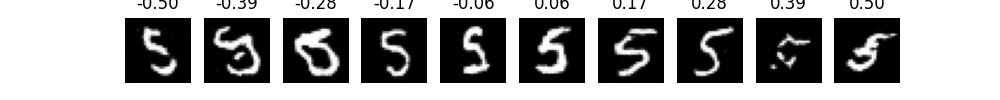
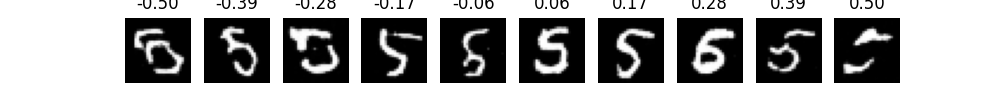
Fix the MeanFlow implementation

diff --git a/script/train.py b/script/train.py
@@ -23,12 +23,17 @@ from model.dit import DiT
 import argparse
 
 EPOCH = int(os.getenv("EPOCH", 500))
-BATCH_SIZE = int(os.getenv("BATCH_SIZE", 400))
-LEARNING_RATE = 0.001
+BATCH_SIZE = int(os.getenv("BATCH_SIZE", 800))
+LEARNING_RATE = 0.002
 WANDB_PROJECT = "flow-morphomnist"
 
 parser = argparse.ArgumentParser()
 parser.add_argument("--method", type=str, default="cfm", choices=["cfm", "mean_flow"], help="Training method: 'cfm' or 'mean_flow'")
+parser.add_argument("--P_mean_t", type=float, default=0.0)
+parser.add_argument("--P_std_t", type=float, default=1.0)
+parser.add_argument("--P_mean_r", type=float, default=0.0)
+parser.add_argument("--P_std_r", type=float, default=1.0)
+parser.add_argument("--ratio", type=float, default=1.0)
 args = parser.parse_args()
 
 dataloader = DataLoader(
@@ -45,7 +50,7 @@ USE_AMP = torch.cuda.is_available() and DEVICE.startswith("cuda")
 scaler = torch.amp.GradScaler('cuda', enabled=USE_AMP)
 
 model_name = f"model_{args.method}.pt"
-use_time = (args.method == "cfm")
+use_time = True
 
 try:
     model = torch.load(model_name, map_location=DEVICE)
@@ -64,6 +69,28 @@ except Exception:
 
 optimizer = torch.optim.Adam(model.parameters(), lr=LEARNING_RATE)
 loss_fn = nn.MSELoss()
+
+def logit_normal_timestep_sample(P_mean: float, P_std: float, num_samples: int, device: torch.device) -> torch.Tensor:
+    rnd_normal = torch.randn((num_samples,), device=device)
+    time = torch.sigmoid(rnd_normal * P_std + P_mean)
+    time = torch.clip(time, min=0.0, max=1.0)
+    return time
+
+def sample_two_timesteps(num_samples, device):
+    """
+    Sampler (t, r): independently sample t and r, with post-processing.
+    Version 1: different post-processing to ensure t >= r.
+    """
+    # step 1: sample two independent timesteps
+    t = logit_normal_timestep_sample(-2, 2, num_samples, device=device)
+    r = logit_normal_timestep_sample(-2, 2, num_samples, device=device)
+    t, r = torch.maximum(t, r), torch.minimum(t, r)
+    # step 2: make t and r different with a probability of ratio 0.25.
+    prob = torch.rand(num_samples, device=device)
+    mask = prob < (1 - 0.25)
+    r = torch.where(mask, t, r)
+
+    return t, r
 
 def init_wandb(model: nn.Module):
     if wandb is None:
@@ -96,13 +123,61 @@ if __name__ == "__main__":
                 batch_x = batch_x.to(DEVICE) * 2 - 1
                 batch_cls = batch_cls.to(DEVICE)
                 batch_slant = batch_slant.to(DEVICE)
-                batch_t = torch.rand(batch_x.size(0), device=DEVICE)
-                batch_noise = torch.randn_like(batch_x)
-                xt = (1 - batch_t.view(-1, 1, 1, 1)) * batch_noise + batch_t.view(-1, 1, 1, 1) * batch_x
+                if args.method == "mean_flow":
+                    # MeanFlow JVP Training
+                    # Sample t, r
+                    batch_t, batch_r = sample_two_timesteps(batch_x.size(0), DEVICE)
+                    batch_noise = torch.randn_like(batch_x)
+                    
+                    z = (1 - batch_t.view(-1, 1, 1, 1)) * batch_x + batch_t.view(-1, 1, 1, 1) * batch_noise
+                    v = batch_noise - batch_x
 
-                with autocast("cuda", enabled=USE_AMP):
-                    vt = model(xt, batch_t, batch_cls, batch_slant)
-                    loss = loss_fn(vt, batch_x - batch_noise)
+                    def u_func(z_in, t_in, r_in):
+                        h_in = t_in - r_in
+                        # model forward: x, t, y, s, h
+                        # We need to capture batch_cls, batch_slant from outer scope
+                        return model(z_in, t_in, batch_cls, batch_slant, h=h_in)
+
+                    dtdt = torch.ones_like(batch_t)
+                    drdt = torch.zeros_like(batch_r)
+
+                    with autocast("cuda", enabled=False): # JVP often unstable or unsupported in FP16?
+                        # Inputs to JVP: (z, t, r) | Tangents: (v, dtdt, drdt)
+                        # We need to make sure inputs are float32 if AMP is off
+                        
+                        z_f32 = z.float()
+                        t_f32 = batch_t.float()
+                        r_f32 = batch_r.float()
+                        v_f32 = v.float()
+                        dtdt_f32 = dtdt.float()
+                        drdt_f32 = drdt.float()
+
+
+                        u_pred, dudt = torch.func.jvp(u_func, (z_f32, t_f32, r_f32), (v_f32, dtdt_f32, drdt_f32))
+
+                        t_minus_r = (t_f32 - r_f32).view(-1, 1, 1, 1)
+                        u_tgt = (v_f32 - t_minus_r * dudt).detach()
+                        
+                        loss = (u_pred - u_tgt)**2
+                        loss = loss.sum(dim=(1, 2, 3))
+                        
+                        # adaptive weighting (hardcoded eps/p for now as per snippet or standard)
+                        norm_eps = 1e-5
+                        norm_p = 0.75 
+
+                        adp_wt = (loss.detach() + norm_eps) ** norm_p
+                        loss = loss / adp_wt
+                        loss = loss.mean()
+
+                else:
+                    # CFM Standard Training
+                    batch_t = torch.rand(batch_x.size(0), device=DEVICE)
+                    batch_noise = torch.randn_like(batch_x)
+                    xt = (1 - batch_t.view(-1, 1, 1, 1)) * batch_noise + batch_t.view(-1, 1, 1, 1) * batch_x
+                    
+                    with autocast("cuda", enabled=USE_AMP):
+                        vt = model(xt, batch_t, batch_cls, batch_slant)
+                        loss = loss_fn(vt, batch_x - batch_noise)
 
                 optimizer.zero_grad(set_to_none=True)
                 if USE_AMP:

diff --git a/model/dit.py b/model/dit.py
@@ -19,13 +19,13 @@ class DiT(nn.Module):
         self.patch_pos_emb=nn.Parameter(torch.rand(1,self.patch_count**2,emb_size))
         
         # time emb
-        if self.use_time:
-            self.time_emb=nn.Sequential(
-                TimePositionEmbedding(emb_size),
-                nn.Linear(emb_size,emb_size),
-                nn.ReLU(),
-                nn.Linear(emb_size,emb_size)
-            )
+        # Always init time_emb because it might be used for horizon (h) in MeanFlow
+        self.time_emb=nn.Sequential(
+            TimePositionEmbedding(emb_size),
+            nn.Linear(emb_size,emb_size),
+            nn.ReLU(),
+            nn.Linear(emb_size,emb_size)
+        )
 
         # label emb
         self.label_emb=nn.Embedding(num_embeddings=label_num,embedding_dim=emb_size)
@@ -43,7 +43,7 @@ class DiT(nn.Module):
         # linear back to patch
         self.linear=nn.Linear(emb_size,channel*patch_size**2)
         
-    def forward(self,x,t,y,s): # x:(batch,channel,height,width)   t:(batch,)  y:(batch, ) s:(batch, )
+    def forward(self,x,t,y,s,h=None): # x:(batch,channel,height,width)   t:(batch,)  y:(batch, ) s:(batch, ) h:(batch, )
         # label emb
         y_emb=self.label_emb(y) #   (batch,emb_size)
         # slant_emb
@@ -53,6 +53,13 @@ class DiT(nn.Module):
             t_emb=self.time_emb(t)  #   (batch,emb_size)
         else:
             t_emb=0
+        
+        # horizon emb
+        if h is not None:
+             # reuse time_emb for horizon
+             h_emb=self.time_emb(h)
+             t_emb = t_emb + h_emb
+
         # condition emb
         cond=y_emb+t_emb
         # patch emb

diff --git a/script/inference.py b/script/inference.py
@@ -33,10 +33,10 @@ def sample(model, cls, slant):
     
     if args.method in ["mean_flow", "mean_flow_rectified"]:
         # One-step generation
-        # t is irrelevant for MeanFlow model (use_time=False), but we pass a dummy
-        t_dummy = torch.zeros(n_sample).to(DEVICE) 
-        v = model(x, t_dummy, cls, slant)
-        x = x + v
+        t = torch.ones(n_sample).to(DEVICE)
+        h = t
+        v = model(x, t, cls, slant, h)
+        x = x - v
     else:
         # ODE integration for CFM
         if torchdiffeq is None:
@@ -63,7 +63,7 @@ if __name__ == "__main__":
         exit()
         
     model.eval()
-    
+    print(f"whether model uses time: {model.use_time}")
     # 1. Condition on digit (Slant = 0)
     digits = torch.arange(10).to(DEVICE)
     slants = torch.zeros(10).to(DEVICE)

diff --git a/README.md b/README.md
@@ -56,10 +56,7 @@ The script loads `model.pt`, samples random noise vectors, and performs flow mat
 2. A fixed digit with a sweep across slant values.
 3. A two-dimensional grid spanning digits and slants.
 
-## 5. Acknowledgement
-The original paper for the Morpho-MNIST dataset: https://arxiv.org/pdf/1809.10780
-
-## 6. Rectified Flow Distillation (Improving MeanFlow)
+## 5. Rectified Flow Distillation
 
 To improve the resolution of MeanFlow (1-step generation) while maintaining its speed, we can use **Rectified Flow** (or Reflow) to distill the high-quality CFM model into current MeanFlow model.
 
@@ -78,3 +75,7 @@ To improve the resolution of MeanFlow (1-step generation) while maintaining its 
     ```bash
     python script/inference.py --method mean_flow_rectified
     ```
+
+## 6. Acknowledgement
+The original paper for the Morpho-MNIST dataset: https://arxiv.org/pdf/1809.10780
+
